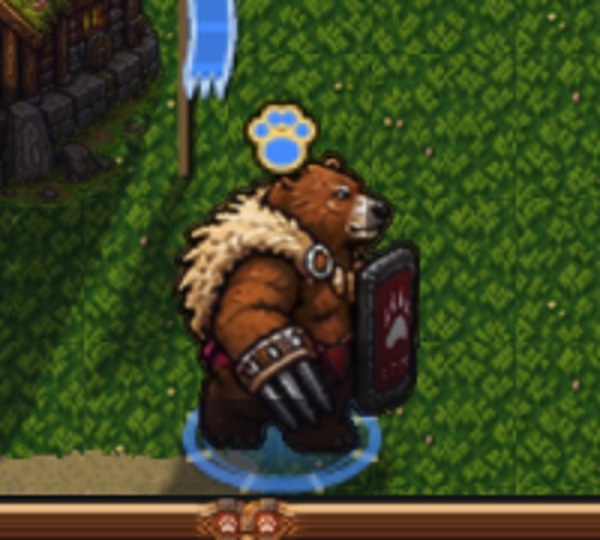
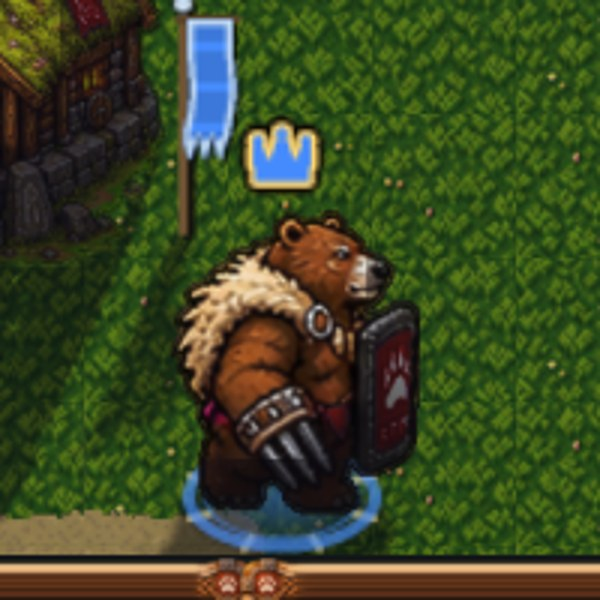
Hős: kis korona a nép jelképe helyett; javítva: a rejtőzés lekérdezése bemutatóban; D53: a Croftianok újragondolása

diff --git a/engine/src/client/sigil.cpp b/engine/src/client/sigil.cpp
@@ -311,81 +311,30 @@ render::Image carry_sack_image() {
 
 namespace {
 
-// a régi `_faction_symbol` (S × S, középre): a nép jelképe a [-0,5; 0,5] egységnégyzetben
-bool symbol_in(int style, float x, float y) {
-  auto circ = [&](float cx, float cy, float r) { return (x - cx) * (x - cx) + (y - cy) * (y - cy) <= r * r; };
-  auto ell = [&](float cx, float cy, float rx, float ry) { return (x - cx) * (x - cx) / (rx * rx) + (y - cy) * (y - cy) / (ry * ry) <= 1; };
-  switch (style) {
-    case 3: {   // Elves: napkorong sugarakkal (közepén sötét – itt lyuk)
-      if (circ(0, 0, 0.12f)) return false;
-      if (circ(0, 0, 0.25f)) return true;
-      for (int k = 0; k < 8; ++k) {
-        const float a = static_cast<float>(k) * 0.785398f;
-        const std::vector<std::pair<float, float>> tri = {{std::cos(a - 0.22f) * 0.24f, std::sin(a - 0.22f) * 0.24f},
-                                                          {std::cos(a) * 0.47f, std::sin(a) * 0.47f},
-                                                          {std::cos(a + 0.22f) * 0.24f, std::sin(a + 0.22f) * 0.24f}};
-        if (in_poly(x, y, tri)) return true;
-      }
-      return false;
-    }
-    case 1:   // Ursan: medvemancs
-      if (ell(0, 0.19f, 0.27f, 0.21f)) return true;
-      for (const auto& [dx, dy] : {std::pair{-0.30f, -0.12f}, {-0.11f, -0.30f}, {0.11f, -0.30f}, {0.30f, -0.12f}}) {
-        if (circ(dx, dy, 0.11f)) return true;
-      }
-      return false;
-    case 2:   // Croftian: három görbe karom
-      for (const float dx : {-0.20f, 0.08f, 0.36f}) {
-        std::vector<std::pair<float, float>> pts;
-        for (int k = 0; k <= 8; ++k) {
-          const float t = static_cast<float>(k) / 8;
-          pts.emplace_back(dx + 0.11f * std::pow(1 - t, 1.4f) - 0.30f * t * t, 0.44f - 0.90f * t);
-        }
-        for (int k = 8; k >= 0; --k) {
-          const float t = static_cast<float>(k) / 8;
-          pts.emplace_back(dx - 0.05f * std::pow(1 - t, 1.4f) - 0.30f * t * t, 0.44f - 0.90f * t);
-        }
-        if (in_poly(x, y, pts)) return true;
-      }
-      return false;
-    case 7:   // Wullof: félhold
-      return circ(0, 0, 0.44f) && !circ(0.18f, -0.10f, 0.38f);
-    case 4: {   // Imperium: kiterjesztett sasszárnyak
-      for (const float sg : {-1.0f, 1.0f}) {
-        const std::vector<std::pair<float, float>> w = {{0, 0.05f},          {sg * 0.46f, -0.30f}, {sg * 0.40f, -0.05f}, {sg * 0.48f, 0.02f},
-                                                        {sg * 0.34f, 0.14f}, {sg * 0.38f, 0.24f},  {0.0f, 0.30f}};
-        if (in_poly(x, y, w)) return true;
-      }
-      return circ(0, -0.12f, 0.10f);
-    }
-    case 6: {   // Hukucha: tavirózsalevél bevágással, rajta gyöngy (lyuk)
-      if (circ(0, 0.12f, 0.10f)) return false;
-      const std::vector<std::pair<float, float>> cut = {{0, 0.06f}, {0.24f, -0.5f}, {-0.24f, -0.5f}};
-      return circ(0, 0.04f, 0.42f) && !in_poly(x, y, cut);
-    }
-    case 5:   // Ooni: torii-kapu
-      return in_poly(x, y, {{-0.48f, -0.36f}, {0.48f, -0.36f}, {0.42f, -0.24f}, {-0.42f, -0.24f}}) ||
-             (x >= -0.34f && x <= 0.34f && y >= -0.12f && y <= -0.04f) || (x >= -0.25f && x <= -0.17f && y >= -0.30f && y <= 0.44f) ||
-             (x >= 0.17f && x <= 0.25f && y >= -0.30f && y <= 0.44f);
-    case 8:   // Micélia: gombakalap tönkkel
-      return ell(0, -0.14f, 0.44f, 0.26f) || (x >= -0.10f && x <= 0.10f && y >= -0.05f && y <= 0.40f);
-    default: {   // csillag
-      std::vector<std::pair<float, float>> pts;
-      for (int k = 0; k < 10; ++k) {
-        const float r = k % 2 == 0 ? 0.46f : 0.20f, a = -1.5707963f + static_cast<float>(k) * 0.6283185f;
-        pts.emplace_back(std::cos(a) * r, std::sin(a) * r);
-      }
-      return in_poly(x, y, pts);
-    }
+// a hős jelvénye (a tulajdonos kérése: kis korona a nép jelképe helyett) a [-0,5; 0,5] egységnégyzetben:
+// öt ágú pánt, az ágak hegyén gömb, alul sáv
+bool crown_in(float x, float y) {
+  if (x < -0.44f || x > 0.44f || y < -0.46f || y > 0.34f) return false;
+  if (y >= 0.12f) return std::fabs(x) <= 0.40f;   // a pánt
+  const float tipx[3] = {-0.36f, 0.0f, 0.36f}, tipy[3] = {-0.22f, -0.34f, -0.22f};
+  for (int i = 0; i < 3; ++i) {   // gömb az ág hegyén
+    if ((x - tipx[i]) * (x - tipx[i]) + (y - tipy[i] + 0.04f) * (y - tipy[i] + 0.04f) <= 0.085f * 0.085f) return true;
   }
+  // három ág: a hegytől a pántig szélesedő háromszögek, köztük mély völgyek
+  for (int i = 0; i < 3; ++i) {
+    if (y < tipy[i]) continue;
+    const float t = (y - tipy[i]) / (0.12f - tipy[i]);   // 0 a hegynél, 1 a pántnál
+    if (std::fabs(x - tipx[i]) <= 0.05f + 0.17f * t) return true;
+  }
+  return std::fabs(x) <= 0.40f && y >= 0.02f;   // a völgyek alja
 }
 
 }  // namespace
 
-render::Image hero_badge_frame(int style) {
+render::Image hero_badge_frame() {
   // 21 × 21: a jelkép sötét körvonala (3 képpont) és arany szegélye (1,5 képpont) – a régi `hero_badge`
   Canvas c(21, 21, 4);
-  auto sym = [&](float x, float y) { return symbol_in(style, (x - 10.5f) / 15.0f, (y - 10.5f) / 15.0f); };
+  auto sym = [&](float x, float y) { return crown_in((x - 10.5f) / 15.0f, (y - 10.5f) / 15.0f); };
   auto dil = [&](float x, float y, float r) {
     for (int k = 0; k < 12; ++k) {
       const float a = static_cast<float>(k) * 0.5235988f;
@@ -398,11 +347,11 @@ render::Image hero_badge_frame(int style) {
   return c.image();
 }
 
-render::Image hero_badge_symbol(int style) {
+render::Image hero_badge_symbol() {
   Canvas c(21, 21, 4);
-  c.fill([&](float x, float y) { return symbol_in(style, (x - 10.5f) / 15.0f, (y - 10.5f) / 15.0f); }, 1, 1, 1, 1);
+  c.fill([&](float x, float y) { return crown_in((x - 10.5f) / 15.0f, (y - 10.5f) / 15.0f); }, 1, 1, 1, 1);
   c.fill([&](float x, float y) {   // felső fény
-    return symbol_in(style, (x - 10.5f) / 15.0f, (y - 10.5f) / 15.0f) && !symbol_in(style, (x - 10.5f) / 15.0f, (y - 9.7f) / 15.0f);
+    return crown_in((x - 10.5f) / 15.0f, (y - 10.5f) / 15.0f) && !crown_in((x - 10.5f) / 15.0f, (y - 9.7f) / 15.0f);
   }, 1, 1, 1, 0.25f);
   return c.image();
 }

diff --git a/engine/src/client/sigil.hpp b/engine/src/client/sigil.hpp
@@ -29,11 +29,11 @@ constexpr int kBannerStyles = 9;
 // a munkás cipelt nyersanyaga (a régi `draw_unit_marks`): kis zsák sötét kontúrral, 12 × 12; a test 80 %-os szürke, a
 // fény fehér (a rajzoló a nyersanyag színével árnyalja)
 render::Image carry_sack_image();
-// Talajjelek és a hős jelei (a régi `_mark_img`, `hero_sigil`, `hero_badge`): a hős jelvénye 21 × 21 (keret: sötét
-// körvonal és arany szegély; a jelkép fehér – a csapatszín árnyalja), a talajjel színezhető és rögzített része
+// Talajjelek és a hős jelei (a régi `_mark_img`, `hero_sigil`, `hero_badge`): a hős jelvénye 21 × 21: kis korona (keret: sötét
+// körvonal és arany szegély; a korona fehér – a csapatszín árnyalja), a talajjel színezhető és rögzített része
 // (w + 8) × (0,56 w + 8), az ének forgó rúnagyűrűje 8 fázisban és a rejtőzés pöttyözött gyűrűje (w + 14) × (0,6 w + 14)
-render::Image hero_badge_frame(int style);
-render::Image hero_badge_symbol(int style);
+render::Image hero_badge_frame();
+render::Image hero_badge_symbol();
 render::Image hero_ground_tinted(float w);
 render::Image hero_ground_fixed(float w);
 render::Image chant_mark_image(float w, int phase);

diff --git a/engine/src/client/main.cpp b/engine/src/client/main.cpp
@@ -869,8 +869,8 @@ int main(int argc, char** argv) {
               };
               mark_hero_tint = one(client::hero_ground_tinted(48.0f));
               mark_hero_fixed = one(client::hero_ground_fixed(48.0f));
-              mark_badge_frame = layers(kS, 21, 21, [](int i) { return client::hero_badge_frame(i); });
-              mark_badge_symbol = layers(kS, 21, 21, [](int i) { return client::hero_badge_symbol(i); });
+              mark_badge_frame = one(client::hero_badge_frame());
+              mark_badge_symbol = one(client::hero_badge_symbol());
               mark_chant = layers(8, 54, 38, [](int i) { return client::chant_mark_image(40.0f, i); });
               mark_hidden = one(client::hidden_mark_image(40.0f));
               world.set_mark_art({&mark_hero_tint, &mark_hero_fixed, &mark_badge_frame, &mark_badge_symbol, &mark_chant, &mark_hidden});

diff --git a/engine/src/client/world.cpp b/engine/src/client/world.cpp
@@ -418,13 +418,11 @@ void World::draw_hero_badges(render::SpriteBatch& batch, float alpha, double tim
     const float rad = static_cast<float>(rules->defs[u.def].radius.to_double()) * kTilePx;
     const float top = y - std::max(48.0f, rad * 3.4f) - 6;   // a fej és a csík fölött
     const float bob = static_cast<float>(std::sin(time * 2.0 + static_cast<double>(u.id))) * 1.5f;
-    const int style = banner_style(cur_->players[std::min<size_t>(u.owner, sim::Sim::kMaxPlayers)].faction);
     const auto col = team_color(u.owner);
     render::SpriteInstance s;
     s.w = s.h = 21;
     s.x = x - 10.5f;
     s.y = top - 21 - 3 + bob;
-    s.layer[0] = static_cast<uint8_t>(style);
     batch.draw(*marks_.badge_frame, nullptr, s);
     s.tint[0] = col[0]; s.tint[1] = col[1]; s.tint[2] = col[2];
     batch.draw(*marks_.badge_symbol, nullptr, s);

diff --git a/engine/src/client/session.cpp b/engine/src/client/session.cpp
@@ -376,7 +376,9 @@ std::shared_ptr<const Snapshot> Session::snapshot() {
     SnapUnit u;
     u.id = e;
     u.x = to_px(p.x);
-    if (const auto* st = w.get<sim::Stealth>(e); st && st->hidden && hh && hh->owner == local_) u.hidden = true;   // a régi talajjel
+    if (match && hh && hh->owner == local_) {   // a régi talajjel (a rejtőzés csak meccsben van)
+      if (const auto* st = w.get<sim::Stealth>(e); st && st->hidden) u.hidden = true;
+    }
     u.y = to_px(p.y);
     if (hh) {
       u.hp = hh->hp;

diff --git a/docs/alap/DONTESEK.md b/docs/alap/DONTESEK.md
@@ -514,3 +514,20 @@ fecskefarkú). A **kisnépek** épületei a szövetséges főnép (a tulajdonos)
 2. **Az egységeken** a csapatszín **egy kulcsszín helyére** kerül: a képen egy fenntartott szín (árnyalattartomány)
    jelöli, hová jön a csapatszín; az atlaszkészítő ebből magától készíti a maszkot, külön maszkkép nem kell (a
    meglévő maszkok tovább működnek). Az épületeken a csapatjelzés a lobogó (D51).
+
+### D53 – A Croftianok újragondolása · ELDÖNTVE (2026-11-19, tervezési elv; megvalósítás később)
+
+A tulajdonos új koncepciója a Croftian népre (a kánon része; a meglévő tartalom ehhez igazodik majd):
+1. **Új név:** a nép új nevet kap (a nevet a tulajdonos adja; addig munkanév: Croftian).
+2. **Eredet:** hangyanép, amely növényekkel foglalkozott; a meteorit hatására összeolvadtak, összemutálódtak kedvenc
+   növényeikkel. Ezért náluk **sok a növényi utalás** (megjelenés, nevek, képességek).
+3. **Lárva helyett Mag.** A **főépület: Anya-királynő** – nem mozog, ő a központi tudat; a nép **magas szintű
+   mágiahasználó**.
+4. **Populáció:** hatalmas, **nagyon lassan** sétáló bogarak, amelyeknek a potroha egy nagy fa – ők a **Mag-őrök**; bennük
+   is képezhetők az alap harci egységek.
+5. **Csápszolga új neve: Termő.** Minden egységet kicsit át kell tervezni a fentiek szerint.
+6. **„Megmérgezett” terület:** szürkés-zöld, kiálló gyökerekkel; **minden épületük alatt inda-grafika**, mintha a földet
+   „kiszívnák”.
+
+A régi játék szabálya itt nem irányadó (a tulajdonos új döntése felülírja); a tanulmánnyal való összevetés a végső
+átnézéskor.

diff --git a/docs/fejlesztes/MUNKANAPLO.md b/docs/fejlesztes/MUNKANAPLO.md
@@ -973,3 +973,7 @@ A rakományt vivő munkás vállánál kis zsák a nyersanyag színében (a `gam
 ## 2026-11-19 – 9. tétel: talajjelek és a hős jelei a régi szerint
 
 A figura alatt: forgó rúnagyűrű (bekapcsolt ének vagy kapcsoló, 8 fázis), pöttyözött gyűrű (a saját rejtőzött egység; a pillanatkép most viszi a rejtőzést), a hős talajjele (fényudvar, csapatszínű kettős gyűrű, nyolc arany rovátka, pulzálva). A hős feje fölött lebegő jelvény: a nép régi jelképe (medvemancs, karmok, napkorong, sasszárny, torii, levél, félhold, gombakalap) a csapatszínben, sötét kontúrral és arany szegéllyel. Az ének és a rejtőzés jelét képen nem ellenőriztem (a bemutatóban nincs ilyen). Kép: `docs/quality/kepek/utan_hos_jelek.jpg`.
+
+## 2026-11-19 – Hős: kis korona; hibajavítás; D53 felírva
+
+A hős feje fölött a nép jelképe helyett kis korona (a tulajdonos kérése), a csapatszínben, arany szegéllyel. Hiba javítva: a rejtőzés lekérdezése szabályok nélküli világban (bemutató) kivételt dobott – most csak meccsben. Felírva D53: a Croftianok újragondolása (új név, növény-hangya eredet, Mag, Anya-királynő, Mag-őrök, Termő, szürkés-zöld gyökeres terület, inda az épületek alatt).
